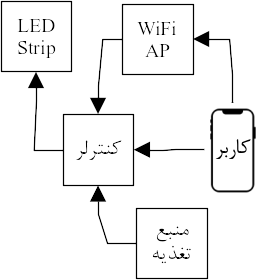
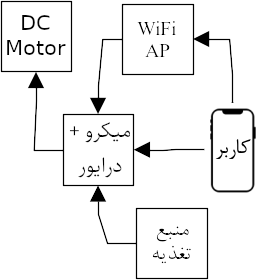
shahin

diff --git a/tex/motor.tex b/tex/motor.tex
@@ -1,0 +1,62 @@
+\فصل{کنترل کننده موتور}
+\برچسب{chap:motor}
+
+یک کنترل کننده موتور یک دستگاه الکترونیکی است (معمولا به شکل یه مدار بدون پوشش و محفظه است) که به عنوان یک دستگاه واسطه بین میکروکنترلر، یک منبع تغذیه یا باتری و موتورها عمل می کند.
+اگرچه میکروکنترلر (مغز ربات) سرعت و جهت موتور را مشخص میکند، اما به دلیل محدودیت زیاد در تغذیه خروجی (جریان و ولتاژ) نمی تواند آن ها را مستقیما هدایت کند. از طرف دیگر درایور موتور میتواند جریان را در ولتاژ مورد نظر فراهم کند اما نمیتواند تصمیم بگیرد که موتور تا چه میزان سریع بچرخد.
+بنابراین، میکروکنترلر و کنترل کننده موتور باید باهم کار کنند تا موتور به طور مناسبی حرکت کند. معمولا میکروکنترلر میتواند از طریق یک روش ارتباطی ساده مانند UART(serial) یا PWM به کنترل کننده موتور دستوالعملی برای چگونگی تغذیه موتور بدهد. هم چنین برخی از کنترل کننده های موتور را می توان به صورت دستی و با استفاده از ولتاژ آنالوگ کنترل کرد (معمولا با یک پتانسیومتر ایجاد می شود).
+اندازه و وزن فیزیکی کنترل کننده موتور می تواند بسیار متفاوت باشد، از یک دستگاه کوچکتر از نوک انگشتتان برای کنترل یک ربات کوچک sumo تا یک کنترل کننده سنگین وزن چند کلیوگرمی. اندازه و وزن کنترل کننده ربات معمولا کمینه تاثیر را روی ربات دارد، تا زمانی که شما با رباتهای خیلی کوچک و یا هواپیماهای بدون سرنشین کار میکنید که در این حالت کوچکترین وزنها هم تاثیرگذار خواهد بود. اندازه کنترل کننده موتور معمولا به حداکثر جریانی که میتواند فراهم کند وابسته است. جریان بیشتر به معنی استفاده از سیم هایی با قطر بزرگتر است.
+انواع کنترل کننده های موتور
+از آنجا که انواع مختلفی از محرک ها یا عملگرها وجود دارد، انواع گوناگونی از کنترل کننده های موتور نیز وجود دارد:
+کنترل کننده موتور های براش DC (با جاروبک): این کنترلکنندهها مختص موتورهای DC، موتورهای DC گیربکسدار و بیشتر موتورها یا عملگرهای خطی است.
+کنترل کننده موتور های بدون جاروبک DC (موتورهای براشلس): موتور های بدون جاروبک DC از این کنترل کنندهها استفاده می کنند.
+کنترل کننده موتوره ای Servo: که مورد استفاده سروو موتورها است.
+کنترل کننده موتور های پله ای: موتور های تک قطبی یا دوقطبی پله ای بسته به نوع آن ها از این استفاده می کنند.
+انتخاب یک کنترل کننده موتور
+کنترل کننده موتور میتواند بلافاصله پس از انتخاب موتور یا محرک انتخاب شود. همچنین، جریان یک موتور به میزان گشتاوری که میتواند فراهم کند مرتبط است: یک موتور DC کوچک، مقدار جریان زیادی مصرف نمی کند، اما گشتاور زیادی هم فراهم نمی کند، در حالیکه یک موتور بزرگ میتواند گشتاور زیادی را ایجاد کند اما برای این کار به جریان زیادی نیاز دارد.
+
+\قسمت{کنترل کننده موتور \چر{DC}}
+
+اولین توجه ولتاژ نامی موتور است. کنترل کننده های موتور DC علاقه منداند که یک محدوده از ولتاژ را ارائه دهند. برای مثال، اگر موتور شما در ولتاژ نامی 3 ولت عمل می کند، شما نباید کنترل کننده موتوری را انتخاب کنید که تنها در محدوده 6 تا 9 ولت موتور را کنترل می کند. این به شما کمک می کند تا برخی از کنترل کننده های موتور را از لیست جدا کنید و انتخاب راحت تری داشته باشید.
+زمانی که شما تعدادی از کنترل کننده های موتور را که در محدوده مناسب ولتاژ موتور را کنترل می کنند یافتید، توجه بعدی جریان مداومی است که کنترل کننده نیاز دارد تامین کند. شما باید کنترل کننده موتوری را پیدا کنید که جریان را برابر یا بالاتر از مصرف جریان مداوم موتور تحت بار ارائه دهد. اگر شما یک کنترل کننده موتور 5 آمپری را برای یک موتور 3 آمپری انتخاب کنید، موتور ها فقط به اندازه ای جریان میگیرند که به آن نیاز دارند. از طرف دیگر، یک موتور 5 آمپری به احتمال زیاد یک کنترل کننده موتور 3 آمپری را میسوزاند. بسیاری از کارخانه های موتور سازی موتور های DC جریان Stall موتور را مشخص می کنند که به شما دید روشنی نمیدهد که چه نوع کنترل کننده موتوری نیاز دارید. اگر شما نمیتوانید جریان مداوم موتور را پیدا کنید، یک قاعده ساده این است که جریان مداوم را حدود 20 تا 25 درصد جریان Stall تخمین بزنید. همه کنترل کننده های موتور DC یک نرخ جریان بیشینه ارائه می کنند- اطمینان حاصل کنید که این نرخ حدودا دوبرابر جریان کارکرد مداوم موتور است. توجه کنید زمانی که موتور نیاز به تولید گشتاور بیشتری دارد (به عنوان مثال برای بالا رفتن از شیب) به جریان بیشتری نیاز دارد. انتخاب یک کنترل کننده موتور با جریانی بیش از حد و حفاظت حرارتی انتخاب بسیار خوبی است.
+روش کنترل، دیگر توجه مهم است. روش های کنترل شامل ولتاژ آنالوگ، 12C، PWM، R/C، UART(serial) هستند. اگر شما از یک میکروکنترلر استفاده می کنید بررسی کنید که کدام پین ها موجود هستند و کدام موتور برای انتخاب شما مناسب است. اگر میکروکنترلر شما پین های ارتباطی سری دارد، شما میتوانید کنترل کننده موتور سری انتخاب کنید؛ برای PWM شما احتمالا به یک کانال PWM برای هر موتور نیاز دارید.
+توجه نهایی یک نکته تجربی است: درایور موتور تک کاناله در مقابل دو کاناله (Single vs. dual motor controller). یک کنترل کننده موتور دوکاناله DC میتواند سرعت و جهت دو موتور DC را مستقلا کنترل کند و اغلب موجب صرفه جویی در هزینه و زمان شما می شود. نیازی نیست که موتور ها یکسان باشد، اگرچه برای یک ربات متحرک، موتورهای درایو در اکثر موارد باید یکسان باشند. شما باید کنترل کننده موتور دوکاناله را بر اساس قوی ترین موتور Dc انتخاب کنید. توجه داشته باشید که کنترل کننده موتور دوکاناله تنها یک ورودی تغذیه دارند، بنابراین، اگر شما میخواهید یک موتور را در 6 ولت و دیگری را در 12 ولت کنترل کنید، این کار غیر ممکن است. توجه داشته باشید که نرخ جریان فراهم شده تقریبا همیشه بر کانال یعنی برای هر کانال بیان میشود که از دیتا شیت کنترل کننده انتخابی تعیین میگردد.
+
+
+\قسمت{راه اندازی و کنترل سرعت موتور \چر{DC}}
+
+سرعت موتور DC به مجموعه ای از ولتاژ و جریان عبوری از سیم پیچ های موتور و نیز بار و گشتاور موتور، بستگی دارد. لذا ساده ترین راه برای کنترل سرعت موتور DC استفاده از مقاومت متغییر مطابق شکل زیر است.
+
+از روش های پرکاربرد دیگری که برای کنترل سرعت موتورهای DC استفاده می شود می توان به مدولاسیون عرض پالس اشاره کرد. از تکنولوژی مدولاسیون عرض پالس(PWM ) برای کنترل توان استفاده می شود. در این روش از پالس های ولتاژ مربعی برای تغذیه موتور استفاده شده، که مقدار توان اعمالی در آن به مقدار dutycycle وابسته است.
+
+همان طور که در شکل می بینید، dutycycle برابر است با نسبت مدت زمانی که سیگنال در وضعیت high قرار دارد، به کل دوره تناوب. نحوه کنترل سرعت موتور به وسیله مدولاسیون عرض پالس به این صورت است که ابتدا یک فرکانس ثابت و مناسب انتخاب شده و سپس برای افزایش سرعت موتور مقدار dutycycle افزایش و برای کاهش سرعت موتور مقدار dutycycle کاهش می یابد. فرکانس پالس PWM مناسب برای راه اندازی موتور DC بسته به نوع موتور معمولا بین 1 تا 100 کیلوهرتز انتخاب می شود. از طرفی معمولا پالس های PWM توسط میکرو کنترلرها تولید می شوند، و با توجه به اینکه خروجی میکروکنترلرها معمولا دارای ولتاژ 5 ولت و جریان در حد میلی آمپر می باشند، لذا قادر به تامین توان لازم برای راه اندازی این تجهیزات نمی باشد. در این صورت مدارات درایور، ولتاژ و جریان لازم را فراهم می کنند.
+درایو یک طرفه:
+در این روش می توان از طریق کنترل میزان dutycycle پالس های PWM که به بیس ترانزیستور اعمال می شوند، سرعت موتور تنها در یک جهت کنترل شود. برای موتورهای کوچک از ترانزیستور BJT به صورت شکل زیر استفاده می شود.
+
+قطعات و تجهیزاتی که در آنها بار سلفی وجود دارد مانند رله، موتورهای سنولوئید، DC و... در هنگام قطع و وصل جریان بار، به خاطر خاصیت خود القایی، اثر تخلیه یا لگد القایی در آنها به وجود می آید که می تواند باعث آسیب رساندن به قطعات مدار و در اینجا به ترانزیستور شود. اثر لگد القایی به این صورت است، زمانی که کلید وصل می شود، جریان از VCC به سمت GND  می گذرد و هنگامی که کلید قطع می شود به خاطر خاصیت خودالقایی سلف، ولتاژی در جهت عکس جریان اولیه ایجاد شده و جریان متناسب با آن می خواهد در جهت عکس از ترانزیستور عبور کند. لذا برای حل این مشکل از دیود هرزگرد مطابق تصویر بالا استفاده می شود. حضور دیود هرزگرد باعث می شود که جریان به جای ترانزیستور از آن عبور کرده و دوبار وارد موتور شود. به این ترتیب این جریان داخی خود موتور از بین می رود.
+همچنین برای بارهای نیازمند جریان بیشتر، به جای ترانزیستور BJT، می توان از ترازیستورهای دارلینگتون برای جریان هایی تا یک آمپر و از ترانزیستور MOSFET برای جریان هایی تا چندین آمپر و برای بارهایی با جریان بالاتر از ترانزیستور IGBT استفاده کرد.
+درایور دو طرفه پل:
+درایورهای یک طرفه فقط موتور را در یک جهت خاموش و روشن می کنند. برای حرکت موتور در دو جهت باید قطب های آن تغییر کند. برای این منظور از درایورهایی با چهار ترانزیستور موسوم به H یا H bridge استفاده می شود.
+معرفی پایه های (Pinout) ماژول درایور دو کاناله L9110S
+		 				 				
+				
+								
+				
+ماژولهای درایور موتور دو کاناله L9110S دارای پایههایی به شرح زیر هستند:
+VCC: ولتاژ تغذیه ماژول
+GND: زمین
+M-A: پایه موتور A
+M-B: پایه موتور B
+A-1: سیگنال کنترلی موتور A
+A-2: سیگنال کنترلی موتور A
+B-1: سیگنال کنترلی موتور B
+B-2: سیگنال کنترلی موتور B
+پین اوت (Pinout) دو ماژول زیر که هر دو بر مبنای آیسی L9110S هستند، در تصاویر زیر مشخص شدهاند.
+					
+						
+				
+			توجه شود که با حالتهای مختلف سیگنالهای کنترلی، عملکرد موتورها متفاوت میشود. برای مثال حالتهای مختلف پایههای کنترلی موتور A (A-1 , A-2) با ورودی دیجیتال در تصویر زیر بیان شدهاند.
+		
+				
+
+
+

diff --git a/tex/controller.tex b/tex/controller.tex
@@ -25,13 +25,6 @@ gls{bt}،
 
 \قسمت{کنترلرهای مبتنی بر \واژهمتن{wifi}}
 
-\شروع{شکل}[ht]
-\تنظیمازوسط
-\درجتصویر[پهنا=0.5\پهنایمتن]{controller}
-\شرح{یک نمونه کنترلر مبتنی بر \واژهمتن{wifi}\مرجع{amzn:B07DDB6JHJ}}
-\برچسب{fig:controller}
-\پایان{شکل}
-
 پروتکل \واژه{wifi} برای ارسال و دریافت اطلاعات با استاندارد \چر{IEEE802.11} که ارائه شده توسط سازمان \واژه{ieee} برای پروتکل \واژه{wifi} که نام تجاری این استاندارد است ساخته شدهاند. به کمک این استاندارد میتوان روی باند ۲٫۴ گیگاهرتز که از باندهای \واژه{ism} به شمار میرود به تبادل دادهی دوطرفه پرداخت.
 
 \واژه{wifi} یک خانواده از پروتکلهای شبکهی بیسیم است که عموماً برای شبکههای محلی و دسترسی به اینترنت استفاده میشود. همانند استاندارد\واژه{bt}، این پروتکل نیز بر باند فرکانسی ۲٫۴ گیگاهرتز مبتنی است؛ گرچه در نسخههای جدیدتر این استاندارد توانایی بهرهگیری از باند ابربالا
@@ -39,22 +32,5 @@ gls{bt}،
 در محدوده فرکانسی ۵ گیگاهرتز نیز در نظر گرفته شده است. از دید ساختار شبکه در مدل \واژه{osi}،
 این پروتکل، پایینترین دو لایه (لایهی فیزیکی و لایهی پیوند داده) را شامل میشود و میتواند از دادههای تبادل شده در لایههای مذکور در برابر تغییرات ناخواسته بر اثر نویز محیطی و یا دستکاری عامدانهی اطلاعات و یا شنود آنها توسط فرد سومی که به کانال بیسیم دسترسی دارد جلوگیری کند؛ اما نسخههای قدیمیتر این استاندارد روشهایی را برای رمزنگاری دادهها معرفی میکند که بعداً مشخص شد امنیت اطلاعات را تضمین نمیکنند و در حال حاضر منسوخ محسوب میگردند (به طور خاص \واژه{wep} و \واژه{wps}). روشهای جدیدتری به این منظور ارائه گردیده اند که از امنیت بسیار بهتری برخوردار هستند\مرجع{wi-fi}.
 
-\شروع{شکل}[ht]
-\تنظیمازوسط
-\درجتصویر[پهنا=0.48\پهنایمتن]{controller2}
-\شرح{یک نمونه کنترلر تجاری مبتنی بر \واژهمتن{wifi}, \واژهمتن{bt} و نور مادون قرمز\مرجع{amzn:B09BMBHDWN}. در سمت راست کنترلر و در سمت چپ کنترل از راه دور مادون قرمز مشاهده میشود.}
-\برچسب{fig:controller2}
-\پایان{شکل}
-
 به علت برد بیشتر اتصالهای مبتنی بر این استاندارد (حدود ۲۰ متر برای نقطههای دسترسی داخلی و بعضاً تا ۱۵۰ متر برای بعضی از مدلهای مناسب برای فضای باز\مرجع{wi-fi}) از مزیتهای کنترلرهای استفاده کننده از \واژه{wifi} میتوان به برد بیشتر آنها و قابلیت استفاده از آنها به صورت نسبتاً پراکنده و در مناطق وسیع اشاره کرد. همچنین بر خلاف استاندارد\واژه{bt}، امکان عملکردن واحدها به صورت \واژه{wifi-repeater} نیز در این استاندارد گنجانده شده است و شرایط لازم برای ایجاد آرایههای بلندی از ابزارهای متصل به هم که یک شبکهی مشترک را در دسترس قرار میدهند فراهم میسازد. به عنوان مثال، کنترلرهایی وجود دارد که به منظور استفادهی خارجی تهیه شده و ضد آب بودن، منعطف بودن و تحمل محدوده دمایی مناسب برای آن در نظر گرفته شده است\مرجع{patent:CN210485639U}\مرجع{patent:CN212156755U}\مرجع{patent:CN209213534U}.
-
-معمولاً به علت تنوع پروتکلهای مورد استفاده برای برقراری ارتباط میان کنترلر و ریسهی دیودها، کنترلرهای تجاری جهت افزایش سازگاری محصول پروتکلهای فراوانی را پشتیبانی میکنند. پروتکلهای دیودها از یک سیم (نوع غیرهمزمان) یا نهایتا دو سیم (نوع همزمان) برای داده استفاده میکنند و به همین علت، هزینههای سختافزاری چندانی نخواهد داشت و قسمت الکتریکی پروتکل به سادگی با دو خروجی تحقق پذیر است. یک نوع کنترلر که از ۱۳ نوع خروجی پشتیبانی میکند در شکل \رجوع{fig:controller} نشان داده شده است\مرجع{amzn:B07DDB6JHJ}.
-
-به همین صورت، امکان پشتیبانی از چندین پروتکل برای ارتباط کاربر با کنترلر نیز وجود دارد. کاربر برای راحتی بیشتر میتواند از رابط \واژه{wifi} استفاده کند که مزیت قابل دسترس بودن بر روی اینترنت و شبکه داخلی و در نتیجه برد وسیع را دارد و یا میتواند از رابط\واژه{bt} استفاده کرده که به نسبت رابط \واژه{wifi} راهاندازی سادهتری دارد. همچنین، کنترلهای مبتنی بر نور مادون قرمز نیز ممکن است توسط کنترلر پشتیبانی شود که در این صورت میتوان بدون انجام مرحلهی همگامسازی تغییرات دلخواه را اعمال کرد؛ البته به علت کم بودن برد این روش نیاز به در دیدرس بودن کنترلر و امکان برقراری ارتباط نوری بین کنترل و آن وجود دارد و همچنین به علت سادگی کنترل مادون قرمز، امکانات بسیاری قابل استفاده نخواهد بود. یک نمونه کنترلر که امکان تعامل با کاربر با هر سه روش ارتباطی مبتنی بر \واژه{wifi}،\واژه{bt} و نور مادون قرمز را پشتیبانی میکند در شکل \رجوع{fig:controller2} مشاهده میشود.
-\قسمت{کنترلرهای مبتنی بر \واژهمتن{bt}}
-
-\واژه{bt}
-یک استاندارد کوتاه-برد بیسیم است که برای تبادل داده میان ابزارهای ثابت یا متحرک در باند فرکانسی فرابالا \واژه{uhf} در محدودهی ۲٫۴ تا ۲٫۴۸ گیگاهرتز استفاده میشود\مرجع{bluetooth-freq}. دستگاههای مبتنی بر این استاندارد در حالت رایج خود به توان ارسالی ۲٫۵ میلیوات محدود هستند که بردی حدود ۱۰ متر را برای کانال مخابراتی تعیین مینماید\مرجع{bluetooth-range}. ارتباطات\واژه{bt} در ابتدا با استاندارد \چر{IEEE802.15.1} ارائه شد؛ گرچه، سازمان \واژه{ieee} دیگر این استاندارد را نگهداری ننموده و این امر به \واژه{bl-sig} که مجموعهای با عضویت بیش از ۳۶ هزار شرکت مرتبط با حوزهی تکنولوژی است محول گردیده است\مرجع{bt-sig}.
-
-یک نمونه از این کنترلر، علاوه بر اتصال با روش\واژه{bt} به کنترل، میتواند از طریق یک ترمینال تعبیه شده با رایانهی بالادستی و با پروتکل سریال ارتباط برقرار کند\مرجع{patent:CN103987158A}.
 

diff --git a/tex/head.tex b/tex/head.tex
@@ -13,7 +13,7 @@
 
 \departfa
 
-\فضایو{2cm} پایاننامه پروژه دوره کارشناسی مهندسی برق گرایش مخابرات
+\فضایو{2cm} پایاننامه پروژه دوره کارشناسی مهندسی برق گرایش کنترل
 
 \فضایو{2cm}\درشتتر\titlefa
 
@@ -45,7 +45,7 @@
 (استاد راهنما) \پرنقطها
 استاد \instfa
 
-دکتر معین احمدی
+دکتر فربد ستوده
 (استاد داور) \پرنقطها
 استاد \instfa
 
@@ -80,7 +80,7 @@
 \فضایو{1cm}
 \شروع{صفحهکوچک}[t]{0.85\پهنایمتن}
 \onehalfspacing
-اینجانب \authorfa{} دانشجوی دوره کارشناسی رشته مهندسی برق با شماره دانشجویی ۹۵۱۰۱۹۰۳۴ متعهد می شوم که مطالب مندرج در این پايان نامه حاصل کار پژوهشی اینجانب تحت نظارت و راهنمایی اساتید \instfa بوده و به دستاوردهای دیگران که در این پژوهش از آنها استفاده شده است، مطابق مقررات و روال متعارف، ارجاع و در فهرست منابع و مآخذ ذکر گردیده است. این پايان نامه  قبلا برای احراز هیچ مدرک هم سطح یا بالاتر ارائه نگردیده است. در صورت اثبات تخلف در هر زمان، مدرک تحصیلی صادر شده توسط دانشگاه از درجه اعتبار ساقط بوده و دانشگاه حق پیگیری قانونی خواهد داشت.
+اینجانب \authorfa{} دانشجوی دوره کارشناسی رشته مهندسی برق با شماره دانشجویی ۹۵۱۰۱۹۰۴۵ متعهد می شوم که مطالب مندرج در این پايان نامه حاصل کار پژوهشی اینجانب تحت نظارت و راهنمایی اساتید \instfa بوده و به دستاوردهای دیگران که در این پژوهش از آنها استفاده شده است، مطابق مقررات و روال متعارف، ارجاع و در فهرست منابع و مآخذ ذکر گردیده است. این پايان نامه  قبلا برای احراز هیچ مدرک هم سطح یا بالاتر ارائه نگردیده است. در صورت اثبات تخلف در هر زمان، مدرک تحصیلی صادر شده توسط دانشگاه از درجه اعتبار ساقط بوده و دانشگاه حق پیگیری قانونی خواهد داشت.
 
 کلیه نتایج و حقوق حاصل از این پايان نامه متعلق به \instfa است و هرگونه استفاده از نتایج علمی، واگذاری اطلاعات به دیگران، چاپ یا تکثیر، نسخه برداری، ترجمه و اقتباس از آن بدون موافقت کتبی \instfa ممنوع است. نقل مطالب با ذکر مآخذ بلامانع است.
 
@@ -113,7 +113,7 @@
 
 لازم میدانم از استاد گرانقدرم، جناب آقای \supervisorfa، در وهلهی اول به خاطر حق استادی که به گردن من دارند و سپس به خاطر قابل دانستن اینجانب برای انجام این پروژه و همچنین پیگیریهای مستمر و صبر مثالزدنی ایشان در طول مدت انجام آن، کمال تشکر را داشته باشم. بدون شک، ایشان نقش بسیار پررنگی در شکلگیری دید من نسبت به علم مخابرات و به طور کلی در حوزهی مهندسی برق داشتهاند و دارند؛ باشد که بتوانم بخشی از این دین را ادا کنم و از بپیمودن این راه باز ناایستم.
 
-از جناب آقای دکتر معین احمدی که زحمت داوری و نقد این پایاننامه را تقبل نمودند کمال امتنان را دارم. اشتیاق ایشان برای آموزاندن مباحث روز حوزه تخصصشان همواره برای من ستودنی بوده است.
+از جناب آقای دکتر فربد ستوده که زحمت داوری و نقد این پایاننامه را تقبل نمودند کمال امتنان را دارم. اشتیاق ایشان برای آموزاندن مباحث روز حوزه تخصصشان همواره برای من ستودنی بوده است.
 
 همچنین، انجام این پروژه منوط به وجود بستر نرمافزاری مناسب بود که به لطف کاربران و توسعهدهندگان آن، بهرهگیری از آن برای عموم آزاد است. از تمام کسانی که به نحوی به تکامل این مجموعه کمک کردند سپاسگزارم.
 
@@ -130,13 +130,12 @@
 \قلمتیتر{چکیده}
 \پایان{وسطچین}
 
-\واژهمتن{iot} در حال گسترش است و سیستمهای نورپردازی آدرسپذیر با استفاده از این تکنولوژی میتوانند به کاربران توانایی خلق صحنههایی جذاب را با هزینهی کم و دسترسیپذیری بالا، بدون نیاز به دانش فنی پیچیده ارائه دهند. این مجموعه نیازمند مرورگر وب، کنترلر، ریسه نوری و منبع توان است که فرآیند ساخت یک نمونه از آن در متن پیش رو مستند گردیده است. \واژهمتن{iot} برای برقراری ارتباط بین کاربر که از طریق مرورگر وب یا نرمافزار بومی استفاده میکند با کنترلر که قسمت اصلی آن یک تراشهی \چر{ESP8266} است و به ادوات \واژهمتن{wifi} برای اتصال به شبکه \واژهمتن{ip} و یک پردازنده مجهز است به کار میرود تا اطلاعات لازم از طریق شبکه محلی یا شبکه اینترنت منتقل شوند. کنترلر مستقیماً از طریق یک پروتکل مخصوص ریسههای نوری آدرسپذیر با آن در ارتباط است و منبع تغذیه توان مورد نیاز برای این دو را فراهم میسازد. با استفاده از یک نرمافزار جانبی میتوان از  صدای دلخواه پخش شده برای ایجاد رقصنورهای هماهنگ با موسیقی در این سیستم استفاده نمود.
+\واژهمتن{iot} در حال گسترش است و سیستمهای کنترلی هوشمند با استفاده از این تکنولوژی میتوانند به کاربران توانایی خلق مجموعههای جذاب را با هزینهی کم و دسترسیپذیری بالا، بدون نیاز به دانش فنی پیچیده ارائه دهند. این مجموعه نیازمند مرورگر وب، کنترلر، موتور \lr{DC} و منبع توان است که فرآیند ساخت یک نمونه از آن در متن پیش رو مستند گردیده است. \واژهمتن{iot} برای برقراری ارتباط بین کاربر که از طریق مرورگر وب یا نرمافزار بومی استفاده میکند با کنترلر که قسمت اصلی آن یک تراشهی \چر{ESP8266} است و به ادوات \واژهمتن{wifi} برای اتصال به شبکه \واژهمتن{ip} و یک پردازنده مجهز است به کار میرود تا اطلاعات لازم از طریق شبکه محلی یا شبکه اینترنت منتقل شوند. کنترلر مستقیماً از طریق رابط سریال میکرکنترلر با آن در ارتباط است و منبع تغذیه توان مورد نیاز برای این دو را فراهم میسازد.
 
 \فضایو{6mm}
 \متنسیاه{کلیدواژه}:
 \واژهمتن{iot}،
-نورپردازی،
 \چر{ESP8266}،
-\چر{WLED}،
-\چر{WS2811}
+\چر{DC Motor}،
+\چر{L911OS}
 

diff --git a/tex/iot.tex b/tex/iot.tex
@@ -248,39 +248,6 @@
 کاربر میتواند چراغهای خانه را طوری تنظیم کند که در صورت نقض امنیت، با حداکثر نور روشن شود. اگر صاحب خانه از خانه خارج شود و قفل در اصلی را فراموش کرده باشد، قفل اتوماتیک بعد از سه دقیقه فعال خواهد شد\مرجع{blog:technostacks-iot-home}.
 \پایان{فقرات}
 
-\قسمت{سیستمهای نورپردازی مبتنی بر \واژهمتن{iot}}
+\قسمت{سیستمهای کنترلی مبتنی بر \واژهمتن{iot}}
 
-\شروع{شکل}[ht]
-\تنظیمازوسط
-\درجتصویر[پهنا=0.9\پهنایمتن]{rgb-lighting}
-\شرح{نورپردازی خارجی یک فضای باز (بالا) و داخلی یک منطقهی مسکونی (پایین)\مرجع{source:onforuleds}}
-\برچسب{fig:rgb-lighting}
-\پایان{شکل}
-
-از این سیستمها جهت نورپردازی ایستا یا پویا در منازل و مناطق مسکونی، به صورت داخلی یا خارجی و به جهت روشنایی، تنظیم رنگ و زیبایی محیطی و یا اجرای صحنههای نوری برنامهریزی شده یا خودکار استفاده میشود.
-
-\شروع{شکل}[ht]
-\تنظیمازوسط
-\درجتصویر[پهنا=0.9\پهنایمتن]{building}
-\شرح{استفاده از نورپردازی خارجی در نمای بیرونی ساختمانها}
-\برچسب{fig:building}
-\پایان{شکل}
-
-از نورپردازیهای خارجی میتوان در فضای سبز  و پارکها (شکل \رجوع{fig:rgb-lighting}) و نمای بیرونی و یا داخلی ساختمانها (شکل \رجوع{fig:pool}، \رجوع{fig:building} و \رجوع{fig:fountain}) استفاده کرد. بدون استفاده از تکنولوژی \واژه{iot} یا روشهای دیگر رادیویی، برای برقراری ارتباط میان کنترلر و دستگاههای نورپردازی لازم است به هنگام سیمکشی برای تأمین توان مورد نیاز هر خروجی، اتصالات مربوط به کنترلر نیز به همراه خطوط تغذیه جایگذاری شده و این کار برای هر دستگاه انجام میشود. بدیهی است در صورتی که سیمکشی برق از قبل وجود داشته باشد و نیاز باشد دستگاه جدیدی در محل مورد نظر متصل گردد نیاز است که سیمکشی برای خطوط کنترلی دوباره انجام شود؛ در صورتی که برای حفظ ظاهر آراستهی صحنهی نهایی نیاز باشد تا سیمکشی جدید از دید پنهان باشد ممکن است هزینهی بسیاری جهت کندن محل قبلی سیمکشی برق و یا ایجاد مسیر جدیدی به علت در دسترس نبودن مسیر قبلی و یا عدم امکان تخریب آن به کارفرمایان تحمیل گردد.
-
-\شروع{شکل}[ht]
-\تنظیمازوسط
-\درجتصویر[پهنا=0.9\پهنایمتن]{fountain}
-\شرح{فوارههای مجهز به تکنولوژی نورپردازی قابل کنترل}
-\برچسب{fig:fountain}
-\پایان{شکل}
-
-در صورتی که اگر از \واژه{iot} استفاده شود این نیاز مرتفع شده و نصب دستگاههای نوری جدید در مناطقی که حتی سابقاً امکان اضافه کردن سیمکشی جدید و یا اعمال اصلاحات در سیمکشی قبلی وجود نداشته است ممکن میشود. همچنین، هر دستگاه میتواند به صورت یک تکرار کننده عمل کرده و برد موثر برای کنترل ادوات نورپردازی نیز بدون استفاده از فرستندههای پر توانتر که بعضاً ممکن است به علل فنی و یا اقتصادی ممکن نباشد افزایش یابد. دستگاههایی که با فرستادن امواج رادیویی کار میکنند نیاز به اخذ مجوز از سازمان کنترلکننده در بدنه مدیریتی هر منطقه یا کشور دارد؛ که در ایران این وظیفه به عهدهی سازمان تنظیم مقررات و ارتباطات رادیویی است. جهت اعطای مجوز مربوط به دستگاه نیاز است که شرایط و ضوابطی توسط سازنده رعایت شود و یکی از آنها محدودیت حداکثر توان رادیویی تشعشع شده از دستگاه است. این ضابطه موجب میشود که برد قابل تحقق برای هر پیوند رادیویی دارای حد بالای مشخصی باشد که امکان عبور از آن بدون تخطی از قوانین وضع شده وجود نخواهد داشت و عملاً ممکن نیست تا با استفاده از فرستندهی قویتر بتوان برد مورد نیاز را تأمین کرد. در این شرایط استفاده از دستگاههای نورپردازی که خود هم به عنوان یک خروجی مستقل و هم به عنوان تکرارکنندهی رادیویی قابل استفاده هستند بسیار کمککننده است.
-
-\شروع{شکل}[ht]
-\تنظیمازوسط
-\درجتصویر[پهنا=0.9\پهنایمتن]{pool}
-\شرح{محیط داخلی یک سالن استخر با نورپردازی متنوع}
-\برچسب{fig:pool}
-\پایان{شکل}
-
+در صورتی که اگر از \واژه{iot} استفاده شود این نیاز مرتفع شده و نصب دستگاههای کنترلی جدید در مناطقی که حتی سابقاً امکان اضافه کردن سیمکشی جدید و یا اعمال اصلاحات در سیمکشی قبلی وجود نداشته است ممکن میشود. همچنین، هر دستگاه میتواند به صورت یک تکرار کننده عمل کرده و برد موثر برای کنترل ادوات کنترلی نیز بدون استفاده از فرستندههای پر توانتر که بعضاً ممکن است به علل فنی و یا اقتصادی ممکن نباشد افزایش یابد. دستگاههایی که با فرستادن امواج رادیویی کار میکنند نیاز به اخذ مجوز از سازمان کنترلکننده در بدنه مدیریتی هر منطقه یا کشور دارد؛ که در ایران این وظیفه به عهدهی سازمان تنظیم مقررات و ارتباطات رادیویی است. جهت اعطای مجوز مربوط به دستگاه نیاز است که شرایط و ضوابطی توسط سازنده رعایت شود و یکی از آنها محدودیت حداکثر توان رادیویی تشعشع شده از دستگاه است. این ضابطه موجب میشود که برد قابل تحقق برای هر پیوند رادیویی دارای حد بالای مشخصی باشد که امکان عبور از آن بدون تخطی از قوانین وضع شده وجود نخواهد داشت و عملاً ممکن نیست تا با استفاده از فرستندهی قویتر بتوان برد مورد نیاز را تأمین کرد.

diff --git a/tex/intro.tex b/tex/intro.tex
@@ -9,7 +9,7 @@
 
 در ابتدا و به هنگام شروع پروژه، اطلاعات کمی دربارهی سختافزار قابل استفاده و همچنین نرمافزار مورد نیاز به دست آمد. به هنگام طراحی و پس از کمی تحقیق مشخص شد که روشهای متعددی برای برنامهنویسی و تولید نرمافزار پروژه - چه \واژه{firmware} (نرمافزاری که روی سیستم توکار اجرا میشود و به صورت سنتی و از دید کاربر غیرقابل تغییر تلقی میگردد - در اینجا تراشهی \چر{\چر{ESP8266}}) و چه برنامه کاربردی قابل اجرا بر روی دستگاه کاربر به عنوان کنترل - وجود دارد. به علت جستجوی ناکافی و یا به دلایلی نامعلوم، نرمافزارهای موجود در این زمینه از انظار پنهان ماند و در نتیجه با فرض این که نیاز به برنامهنویسی از پایه و صفر، هم برای کنترل (دستگاه کاربر) و هم برای کنترلر مبرم است، این کار شروع شد؛ غافل از اینکه وقت و انرژیای که در راستای برنامهنویسی صرف خواهد شد استفادهی چندانی در آینده نخواهد داشت - حداقل مستقیماً برای این پروژه. گرچه، یادگیری فراوانی از جزئیات، طرزکار و کاربردهای ممکن ماژول مورد استفاده حاصل آمد که سعی کردهام دستکم بخشی از آن را در فصل مرتبط با تراشهی اصلی (فصل \رجوع{chap:esp}) بگنجانم؛ امید است روزی مفید فایده قرار گیرد و در پروژهی دیگری به کار آید.
 
-در فصول پیش رو، خلاصهای از اطلاعات زمینهای برای این پروژه آورده شده است. در فصل \رجوع{chap:iot}، توضیحاتی در مورد \واژه{iot} ارائه شده است که بستر اصلی ارتباط بین کاربر و دستگاه است. در فصل \رجوع{chap:argb}، توضیح مختصری بر چیستی و کاربرد دیودهای نوری آدرسپذیر داده شده و پروتکل مخصوص ریسهای که در این پروژه استفاده شد تشریح گردیده است. در فصل \رجوع{chap:controller} نمونههایی انواع کنترلرهایی که از تکنولوژیهای بیسیم (و به صورت بخصوص در باند ۲٫۴ گیگاهرتز) استفاده میکنند مشاهده میشود و در فصل \رجوع{chap:esp}، اطلاعات مفصلی دربارهی تراشهی اصلی استفاده شده در کنترلر این پروژه که بخشی از آن نتیجهی پرسههای طولانی مدت در اعماق فضای اینترنت و غالباً برای کنجکاوی و بعضاً به جهت نیاز به دانستن دقیق نحوهی کارکرد این وسیله انجام شده است میباشد.
+در فصول پیش رو، خلاصهای از اطلاعات زمینهای برای این پروژه آورده شده است. در فصل \رجوع{chap:iot}، توضیحاتی در مورد \واژه{iot} ارائه شده است که بستر اصلی ارتباط بین کاربر و دستگاه است. در فصل \رجوع{chap:controller} نمونههایی انواع کنترلرهایی که از تکنولوژیهای بیسیم (و به صورت بخصوص در باند ۲٫۴ گیگاهرتز) استفاده میکنند مشاهده میشود و در فصل \رجوع{chap:esp}، اطلاعات مفصلی دربارهی تراشهی اصلی استفاده شده در کنترلر این پروژه که بخشی از آن نتیجهی پرسههای طولانی مدت در اعماق فضای اینترنت و غالباً برای کنجکاوی و بعضاً به جهت نیاز به دانستن دقیق نحوهی کارکرد این وسیله انجام شده است میباشد.
 
 بالاخره فصل \رجوع{chap:setup} چگونگی کارکرد سیستمی که به طور خاص در این پروژه ساخته شده و نرمافزارهایی که در آن به کار رفته میپردازد و در نهایت، فصل \رجوع{chap:wrapup} نتیجهگیری حاصل از این پروژه را مستند میسازد.
 

diff --git a/tex/common.tex b/tex/common.tex
@@ -8,24 +8,24 @@
 \graphicspath{{img}}
 
 \newcommand{\titlefa}{%
-طراحی کنترلکننده سیستم نورپردازی پیکسلی \lr{RGB} مبتنی بر برنامه کاربردی وب با رویکرد اینترنت اشیاء}
+طراحی کنترلکننده موتورهای \lr{DC} مبتنی بر برنامه کاربردی وب با رویکرد اینترنت اشیاء}
 
-\newcommand{\authorfa}{محمدامین صامتی}
+\newcommand{\authorfa}{شاهین کریمی}
 
-\newcommand{\rawsupervisorfa}{حامد خوشنیت}
+\newcommand{\rawsupervisorfa}{کاوه هوشمندی}
 \newcommand{\supervisorfa}{دکتر\space\rawsupervisorfa}
 
 \newcommand{\departfa}{دانشکده مهندسی برق و کامپیوتر}
 
 \newcommand{\instfa}{دانشگاه صنعتی اراک}
 
-\newcommand{\datefa}{شهریور ۱۴۰۰}
+\newcommand{\datefa}{اسفند ۱۴۰۱}
 
-\newcommand{\titleen}{Design of RGB Pixel System Controller based on Web Application with IoT Approach}
+\newcommand{\titleen}{Design of DC Motor Controller based on Web Application with IoT Approach}
 
-\newcommand{\authoren}{Mohammad Amin Sameti}
+\newcommand{\authoren}{Shahin Karimi}
 
-\newcommand{\supervisoren}{Dr. Hamed Khoshniyat}
+\newcommand{\supervisoren}{Dr. Kaveh Hooshmandi}
 
 \newcommand{\insten}{Arak University of Technology}
 

diff --git a/thesis.tex b/thesis.tex
@@ -66,11 +66,11 @@
 
 \شامل{tex/iot}
 
-\شامل{tex/argb}
-
 \شامل{tex/controller}
 
 \شامل{tex/esp}
+
+\شامل{tex/motor}
 
 \شامل{tex/setup}
 
